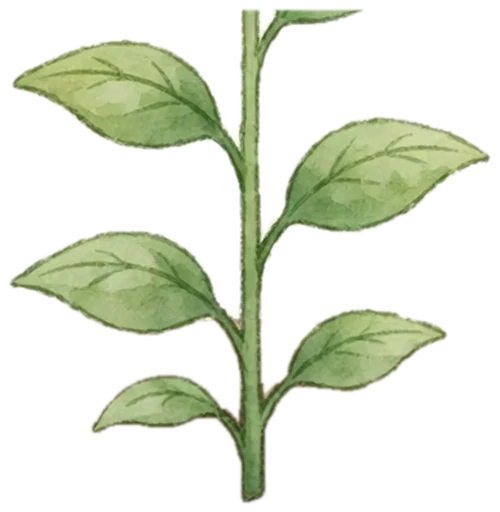
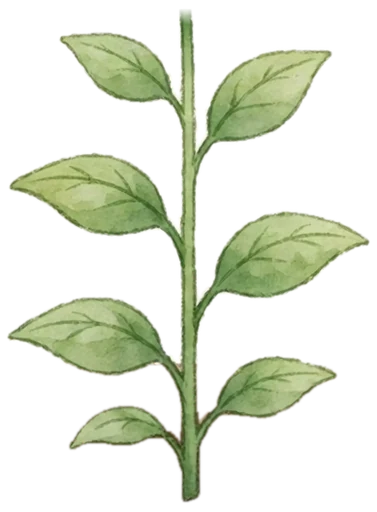
Art: review fixes for the coins and garden
- The leafy plant is the flower painting without its head (lifted by
  mask, the stem's tip faded out), at the flower's own scale, so the
  leaves do not shrink when it flowers and no leaf is cut by a line.
- The seed is cleaner and sits low in the soil.
- A coin has a plain disc under its picture, so it has its shape and
  size before the picture arrives; the numbers are their old size.
- The plant's pictures are loaded when the bed appears, so each rises
  out of the soil rather than out of an empty box.
- No long-press sheet on the coins or the garden's pictures.
- Tests: the coins on the page are checked to be in order of size,
  whichever three are shown; the garden test runs with tips off and the
  usual timeouts.

Claude-Session: https://claude.ai/code/session_01VPsoz1zCgxKYsU219T5WFB

diff --git a/e2e/game-art.spec.ts b/e2e/game-art.spec.ts
@@ -26,10 +26,14 @@ test("coins are the painted faces, copper for the penny and silver for the rest,
     await expect(coin.locator("image")).toHaveAttribute("href", new RegExp(`/games/coin-${id === "penny" ? "copper" : "silver"}\\.webp$`));
     await expect(coin.locator("text")).toHaveText(cents ?? "");
   }
-  // A dime is still the smallest and a quarter the biggest: the size is the coin's, not the picture's.
-  const size = async (id: string) => Number(await coins.locator(`.coin-art[data-coin-art=${id}] image`).first().getAttribute("width").catch(() => "0"));
-  const seen = await picks.evaluateAll((nodes) => nodes.map((node) => node.getAttribute("data-coin-art")));
-  if (seen.includes("dime") && seen.includes("quarter")) expect(await size("dime")).toBeLessThan(await size("quarter"));
+  // A dime is still the smallest and a quarter the biggest: whichever three are shown, their faces
+  // on the page are in that order of size (the size is the coin's, not the picture's).
+  const order = ["dime", "penny", "nickel", "quarter"];
+  const shown = await picks.evaluateAll((nodes) =>
+    nodes.map((node) => ({ id: node.getAttribute("data-coin-art") ?? "", width: node.querySelector("image")!.getBoundingClientRect().width })),
+  );
+  const bySize = [...shown].sort((a, b) => order.indexOf(a.id) - order.indexOf(b.id));
+  for (let i = 1; i < bySize.length; i += 1) expect(bySize[i].width, `${bySize[i].id} is bigger than ${bySize[i - 1].id}`).toBeGreaterThan(bySize[i - 1].width);
   expect(missing).toEqual([]);
 });
 
@@ -40,6 +44,7 @@ test("the garden is painted: the bed, the things to give, and the plant at each 
     ({ saved }) => {
       localStorage.setItem("kids-app-profiles-v1", JSON.stringify(saved));
       localStorage.removeItem("kids-app-silent-hint-v1");
+      localStorage.setItem("littlenest-settings-v1", JSON.stringify({ showTips: false }));
     },
     { saved },
   );
@@ -62,14 +67,14 @@ test("the garden is painted: the bed, the things to give, and the plant at each 
   // Bare soil, then a seed, a sprout, a leafy plant: each step its own picture, rooted in the bed.
   await expect(bed.locator("[data-plant]")).toHaveCount(0);
   for (const [step, plant] of [["1", "seed"], ["2", "sprout"], ["3", "plant"]] as const) {
-    await expect(frame).toHaveAttribute("data-ready", "true", { timeout: 15_000 });
+    await expect(frame).toHaveAttribute("data-ready", "true");
     const need = (await frame.getAttribute("data-need")) ?? "";
     await frame.locator(`.pick[data-give=${need}]`).click();
     await expect(bed).toHaveAttribute("data-grown", step);
     await expect(bed.locator("[data-plant]")).toHaveAttribute("data-plant", plant);
   }
   // And the flower, with the last thing it needs.
-  await expect(frame).toHaveAttribute("data-ready", "true", { timeout: 15_000 });
+  await expect(frame).toHaveAttribute("data-ready", "true");
   await frame.locator(`.pick[data-give=${(await frame.getAttribute("data-need")) ?? ""}]`).click();
   await expect(bed.locator("[data-plant=flower]")).toHaveCount(1);
   expect(missing).toEqual([]);

diff --git a/src/game/money.tsx b/src/game/money.tsx
@@ -17,11 +17,11 @@ import { Illustration } from "../illustrations";
  * so the number stays text (sharp at any size) and two pictures make four coins.
  */
 
-const COIN_LOOK: Record<"penny" | "nickel" | "dime" | "quarter", { r: number; face: "copper" | "silver"; text: string }> = {
-  penny: { r: 31, face: "copper", text: "#6B3814" },
-  nickel: { r: 36, face: "silver", text: "#3F4A57" },
-  dime: { r: 26, face: "silver", text: "#3F4A57" },
-  quarter: { r: 44, face: "silver", text: "#3F4A57" },
+const COIN_LOOK: Record<"penny" | "nickel" | "dime" | "quarter", { r: number; face: "copper" | "silver"; under: string; text: string }> = {
+  penny: { r: 31, face: "copper", under: "#D68A5E", text: "#6B3814" },
+  nickel: { r: 36, face: "silver", under: "#D5D7DA", text: "#3F4A57" },
+  dime: { r: 26, face: "silver", under: "#D5D7DA", text: "#3F4A57" },
+  quarter: { r: 44, face: "silver", under: "#D5D7DA", text: "#3F4A57" },
 };
 
 const coinFace = (face: "copper" | "silver") => `${import.meta.env.BASE_URL}games/coin-${face}.webp`;
@@ -50,9 +50,10 @@ export function Coin({ id }: { id: MoneyId }) {
   const cents = COIN_CENTS[id];
   return (
     <svg className="coin-art" viewBox="0 0 100 100" aria-hidden="true" focusable="false" data-coin-art={id}>
+      {/* A plain disc under the picture: the coin has its shape and size from the first frame, before the picture arrives. */}
+      <circle cx="50" cy="50" r={look.r - 1.5} fill={look.under} />
       <image href={coinFace(look.face)} x={50 - look.r} y={50 - look.r} width={look.r * 2} height={look.r * 2} data-coin-face={look.face} />
-      {/* The number sits inside the face's inner ring, a little smaller than it was on the flat coin. */}
-      <text x="50" y={50 + (cents >= 10 ? look.r * 0.27 : look.r * 0.32)} textAnchor="middle" fontSize={cents >= 10 ? look.r * 0.74 : look.r * 0.9} fontWeight="800" fill={look.text}>
+      <text x="50" y={50 + (cents >= 10 ? look.r * 0.3 : look.r * 0.36)} textAnchor="middle" fontSize={cents >= 10 ? look.r * 0.82 : look.r} fontWeight="800" fill={look.text}>
         {cents}
       </text>
     </svg>

diff --git a/src/components/ScienceGames.tsx b/src/components/ScienceGames.tsx
@@ -1,4 +1,4 @@
-import { useMemo, useState } from "react";
+import { useEffect, useMemo, useState } from "react";
 import { promptCue, wordCue, type Cue } from "../audio/player";
 import type { AnimalId } from "../data/animals";
 import {
@@ -70,11 +70,15 @@ function NeedArt({ need }: { need: GrowNeed }) {
   return <img className="art prop-art" data-prop={need} src={gardenArt(need === "water" ? "can" : need)} alt="" draggable={false} decoding="async" />;
 }
 
-/** The plant at each step after the seed: where it stands in the bed's box (160 by 170), rooted in the soil. */
+/**
+ * The plant at each step after the seed: where it stands in the bed's box (160 by 170), rooted in
+ * the soil (which is at about y 117 to 136). The leafy plant and the flower are one painting at one
+ * scale, so the leaves do not change size when it flowers; the seed sits low, half in the soil.
+ */
 const PLANT: Record<number, { art: "seed" | "sprout" | "plant" | "flower"; x: number; y: number; width: number; height: number }> = {
-  1: { art: "seed", x: 72.5, y: 108, width: 15, height: 20 },
+  1: { art: "seed", x: 73.5, y: 115, width: 13, height: 16.5 },
   2: { art: "sprout", x: 52, y: 81, width: 56, height: 47 },
-  3: { art: "plant", x: 46, y: 58, width: 68, height: 70 },
+  3: { art: "plant", x: 49.5, y: 45, width: 61, height: 83 },
   4: { art: "flower", x: 49.5, y: 16, width: 61, height: 112 },
 };
 
@@ -83,6 +87,10 @@ const PLANT: Record<number, { art: "seed" | "sprout" | "plant" | "flower"; x: nu
  * plant, a flower. A bubble shows what it needs next, and the last thing given plays over it.
  */
 function GardenBed({ step, need, effect, turn }: { step: number; need?: GrowNeed; effect: GrowNeed | ""; turn: number }) {
+  // The plant's pictures, ready before it grows into them (each rises as it appears: not out of an empty box).
+  useEffect(() => {
+    for (const { art } of Object.values(PLANT)) new Image().src = gardenArt(art);
+  }, []);
   const plant = PLANT[Math.min(step, 4)];
   return (
     <div className="garden-bed" data-grown={step} data-effect={effect || "none"}>

diff --git a/src/index.css b/src/index.css
@@ -7718,8 +7718,18 @@ input.is-pressed,
   box-sizing: border-box;
   -webkit-user-drag: none;
   -webkit-touch-callout: none;
+  -webkit-user-select: none;
   user-select: none;
   pointer-events: none;
+}
+
+/* The painted coins and the garden's pictures are not things to save either (a coin on the stage
+   is not in a button). */
+.coin-art,
+.garden-plant {
+  -webkit-touch-callout: none;
+  -webkit-user-select: none;
+  user-select: none;
 }
 
 @keyframes garden-rise {

diff --git a/scripts/game-art.py b/scripts/game-art.py
@@ -116,34 +116,47 @@ def prop(path, name, size, lo=9.0, hi=26.0, solid=False):
     save(img, out, name, size)
 
 
-def plant(path, name, size, top=1.0):
-    """The plant lifted off its bed: what is green or yellow (not soil, wood or paper). `top` under 1 keeps that much of it from the ground up, green only (the head comes off)."""
+def plant(path, name, size, head=True):
+    """
+    The plant lifted off its bed: what is green or yellow (not soil, wood or paper). Without its
+    head (`head=False`) it is the green only, up to a little above its top leaf, the stem's tip
+    faded out there (so the same picture is the plant the step before it flowers, at the same scale).
+    """
     img = cv2.imread(str(path))
     hsv = cv2.cvtColor(img, cv2.COLOR_BGR2HSV)
     h, s, v = hsv[:, :, 0].astype(int) * 2, hsv[:, :, 1], hsv[:, :, 2]
     green = (h >= 62) & (h <= 170) & (s > 48)
     yellow = (h >= 40) & (h < 62) & (s > 120) & (v > 170)
-    mask = cv2.morphologyEx((green if top < 1.0 else green | yellow).astype(np.uint8), cv2.MORPH_OPEN, np.ones((3, 3), np.uint8))
+    mask = cv2.morphologyEx((green | yellow if head else green).astype(np.uint8), cv2.MORPH_OPEN, np.ones((3, 3), np.uint8))
     mask = filled(biggest(cv2.morphologyEx(mask, cv2.MORPH_CLOSE, np.ones((15, 15), np.uint8)))) & cv2.dilate(mask, np.ones((5, 5), np.uint8))
-    mask = filled(mask)
-    if top < 1.0:
-        ys = np.where(mask.any(axis=1))[0]
-        cut = int(ys.max() - (ys.max() - ys.min()) * top)
-        mask[:cut] = 0
-    save(img, feather(mask, 1.0), name, size)
+    alpha = feather(filled(mask), 1.0).astype(np.float32)
+    if not head:
+        rows = np.where(mask.any(axis=1))[0]
+        widths = np.array([np.ptp(np.where(mask[y])[0]) + 1 for y in rows])
+        stem = np.median(widths[: max(8, len(widths) // 12)])  # the bare stem under the head
+        leaf = rows[np.argmax(widths > stem * 3)]  # the first row a leaf is in
+        tip, fade = leaf - 26, 18
+        alpha[:tip] = 0
+        alpha[tip : tip + fade] *= np.linspace(0, 1, fade)[:, None]
+    return save(img, alpha.astype(np.uint8), name, size)
 
 
 def main(folder: Path):
-    find = lambda key: next(p for p in sorted(folder.glob("*.webp")) if key in p.name)
+    def find(key):
+        found = [p for p in sorted(folder.glob("*.webp")) if key in p.name]
+        if not found:
+            sys.exit(f"No render named ...{key}... in {folder}")
+        return found[0]
+
     coin(find("coin-copper-blank"), "coin-copper")
     coin(find("coin-silver-blank"), "coin-silver")
     prop(find("planting-bed-empty"), "garden/bed", 640, solid=True)
-    prop(find("planting-seed"), "garden/seed", 256, lo=24.0, hi=44.0, solid=True)
+    prop(find("planting-seed"), "garden/seed", 256, lo=34.0, hi=54.0, solid=True)
     prop(find("planting-sun"), "garden/sun", 384, lo=20.0, hi=38.0, solid=True)
     prop(find("planting-can"), "garden/can", 384)
     plant(find("planting-sprout"), "garden/sprout", 256)
     plant(find("planting-grown"), "garden/flower", 512)
-    plant(find("planting-grown"), "garden/plant", 512, top=0.7)
+    plant(find("planting-grown"), "garden/plant", 512, head=False)
 
 
 if __name__ == "__main__":
